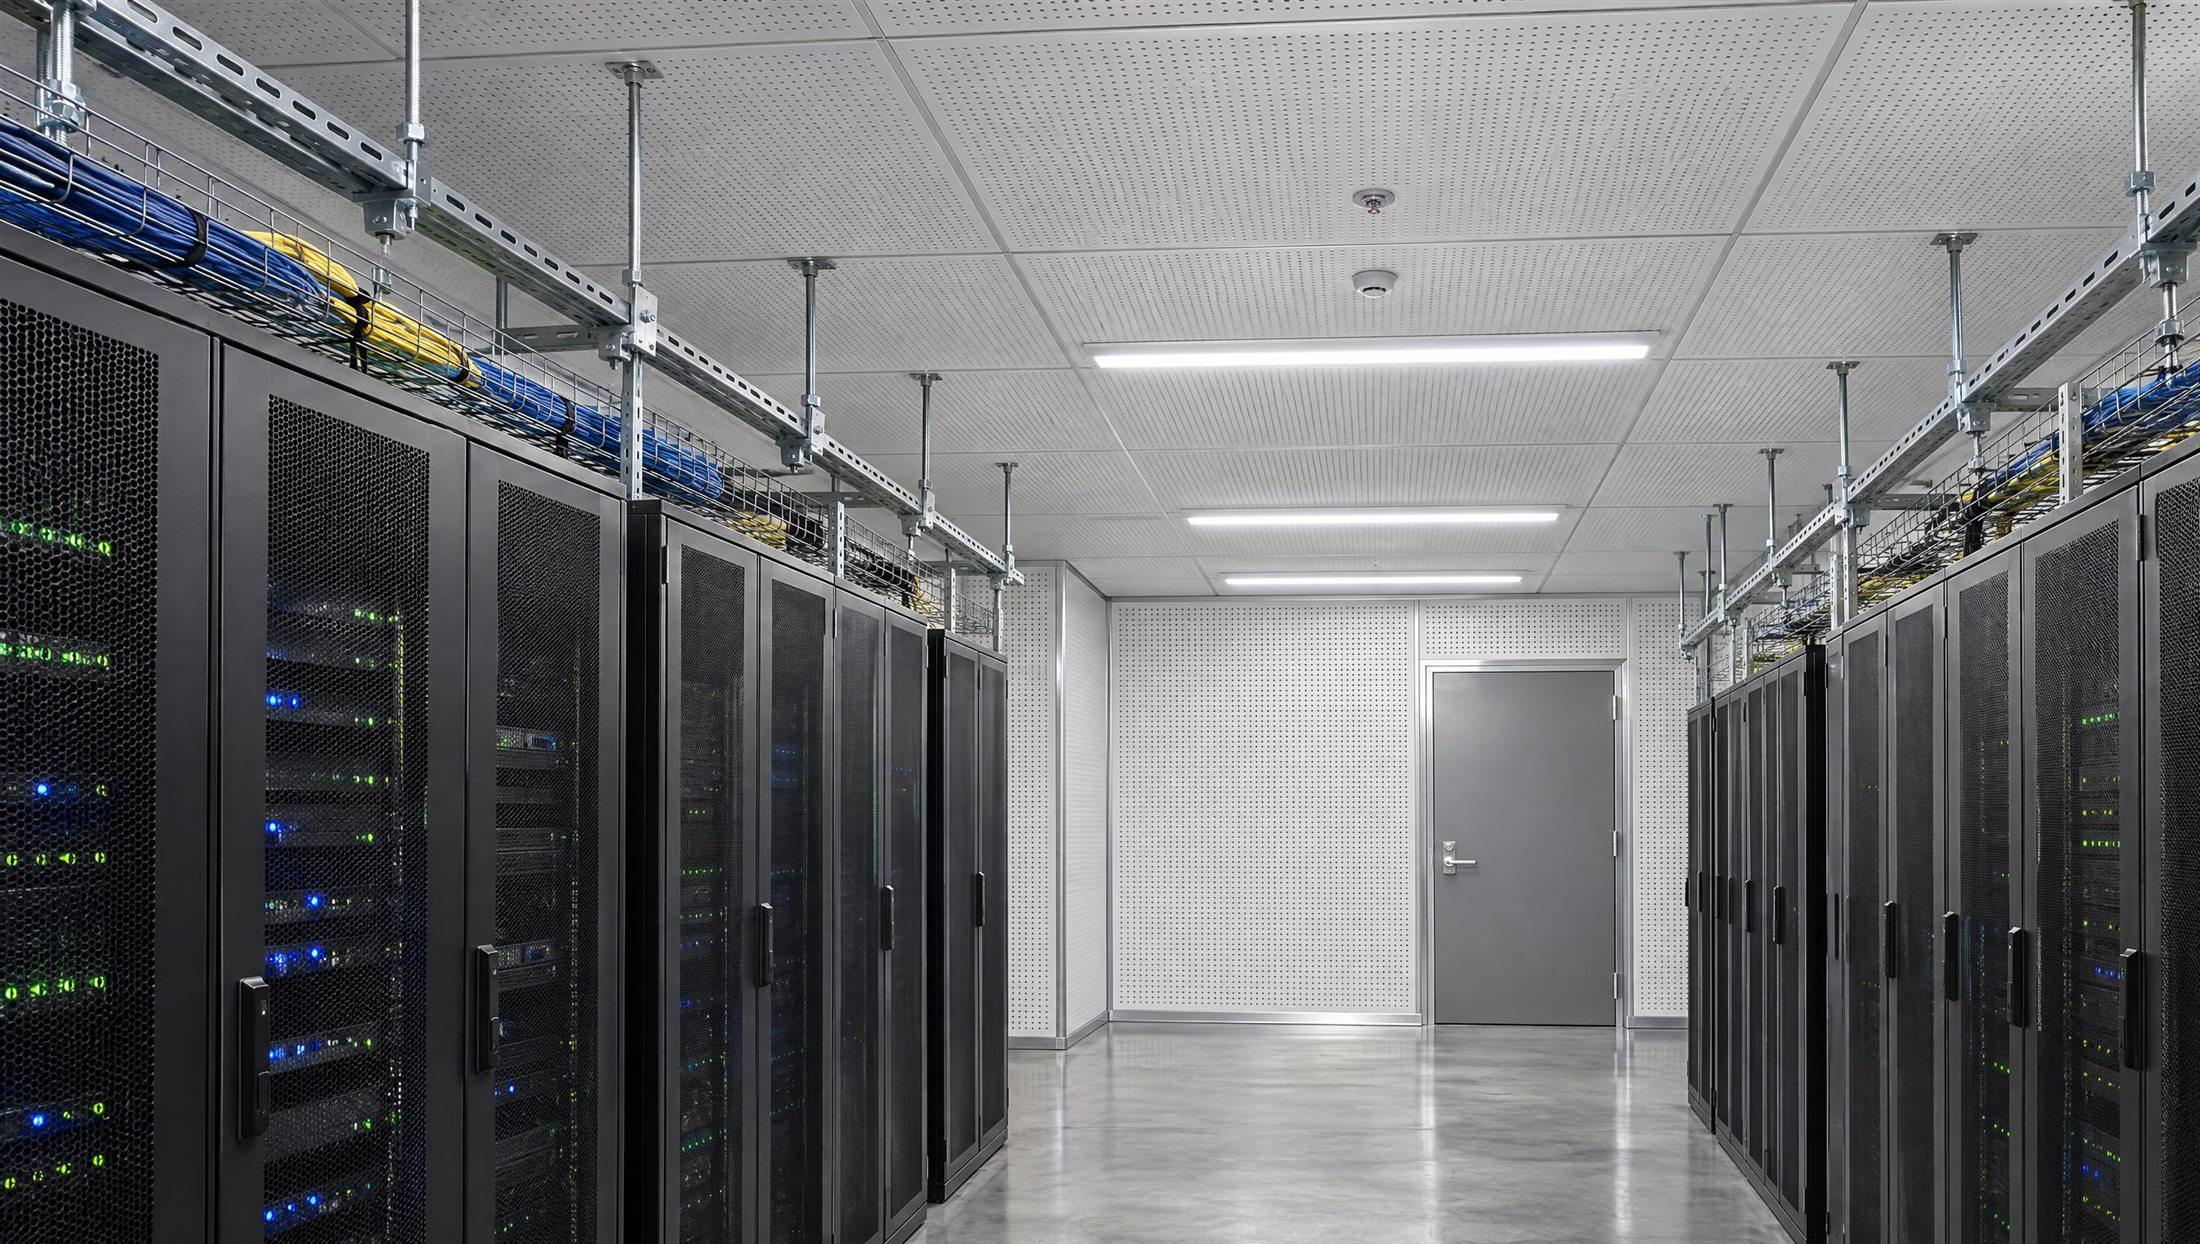
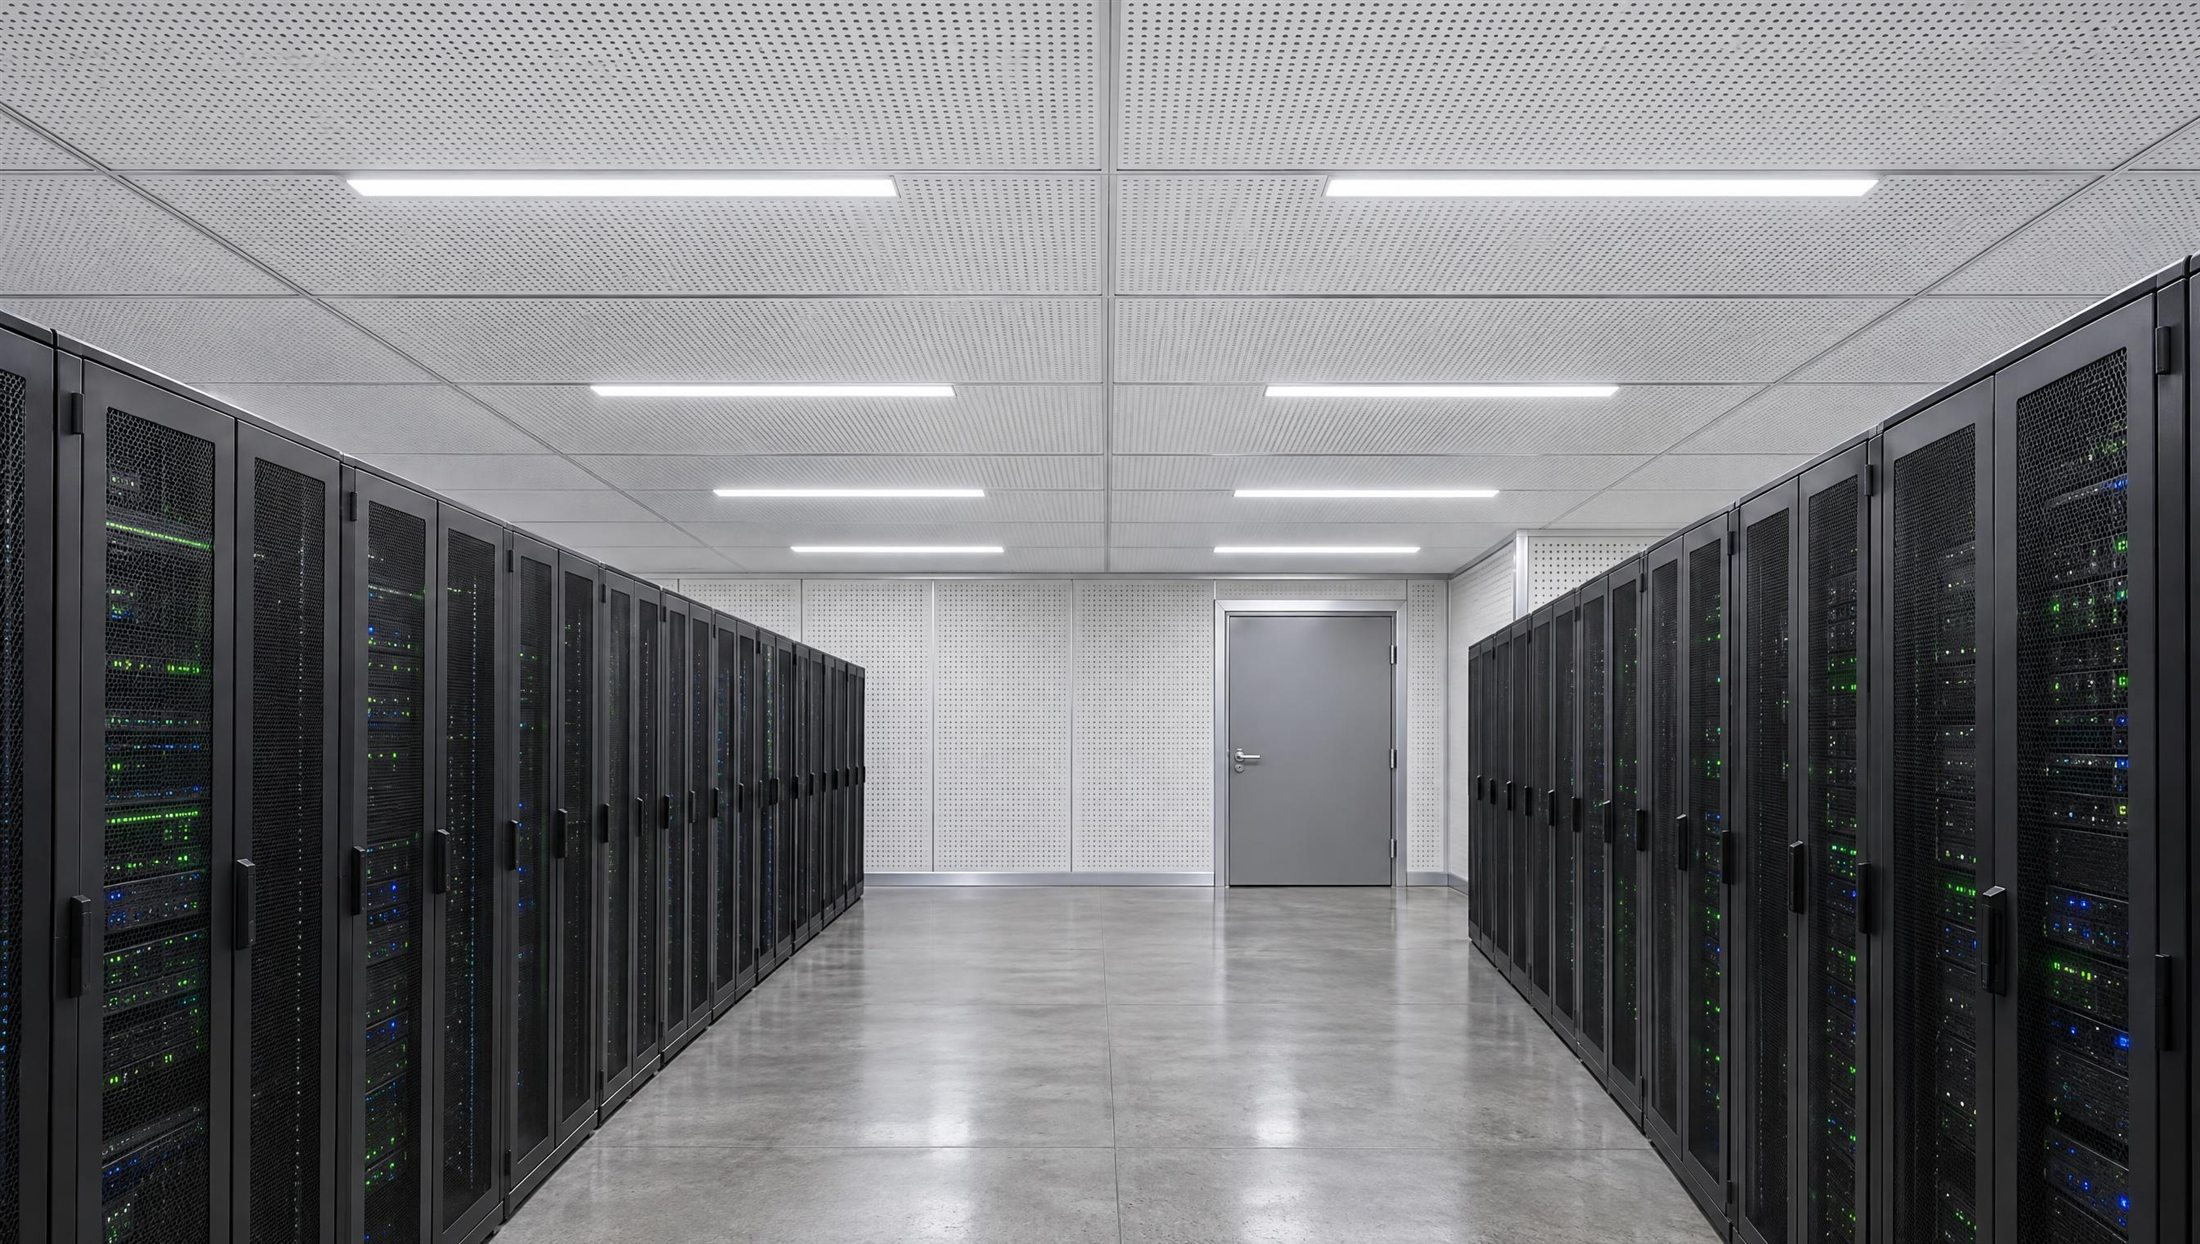
Concept: data center walk-through: drop the strut channel / hangers pin and show a clean inside picture with no hanging hardware

diff --git a/concept/js/scene-data-center.js b/concept/js/scene-data-center.js
@@ -9,11 +9,11 @@
   U.scenes['data-center']={
     modes:{
       out:{label:'Outside',title:'The outside',lead:'The roof, the walls, the entrance door and the corner trim. Tap a number on the picture, or pick a part here.'},
-      in:{label:'Inside',title:'The inside',lead:'The ceiling, the interior wall, seams, hangers and doors. Tap a number on the picture, or pick a part here.'}
+      in:{label:'Inside',title:'The inside',lead:'The ceiling, the interior wall, seam trim, a door and a corner. Tap a number on the picture, or pick a part here.'}
     },
     images:{
       out:{src:'img/dc-outside.jpg',w:2200,h:1244,alt:'Illustration of a data center from outside: a white insulated metal panel building with a smooth front wall, a side wall with visible fasteners, a ribbed roof, an entrance door and aluminum corner trim.'},
-      in:{src:'img/dc-inside.jpg',w:2200,h:1244,alt:'Illustration of the inside of a data center hall: server racks, a perforated white ceiling and wall, strut channel and rods holding cable trays, and a grey metal door.'}
+      in:{src:'img/dc-inside.jpg',w:2200,h:1244,alt:'Illustration of the inside of a data center hall: server racks, a perforated white ceiling and wall, and a grey metal door.'}
     },
     parts:[
       {key:'roof',pid:'roof-fireguard',mode:'out',n:1,label:'Roof',x:58.3,y:21.6,look:'The long ribs running down the roof.'},
@@ -21,12 +21,11 @@
       {key:'wall-side',pid:'wall-exposed',mode:'out',n:3,label:'Side wall',x:71.8,y:48.1,look:'The round fastener heads in rows across each panel.'},
       {key:'door-out',pid:'metal-doors',mode:'out',n:4,label:'Entrance door',x:31.7,y:73.8,look:'The grey door in its aluminum frame.'},
       {key:'corner-out',pid:'corner-angles',mode:'out',n:5,label:'Corner trim',x:61.7,y:58.4,look:'The slim aluminum angle where the two walls meet.'},
-      {key:'ceiling',pid:'roof-acoustic',mode:'in',n:1,label:'Ceiling',x:58.3,y:13.7,look:'The fine perforations across the white ceiling.'},
-      {key:'partition',pid:'interior-acoustic',mode:'in',n:2,label:'Interior wall',x:57.5,y:60.4,look:'The perforated white wall behind the racks.'},
-      {key:'tbar',pid:'t-bar',mode:'in',n:3,label:'Seam trim',x:66,y:19.6,look:'The slim aluminum lines where ceiling panels meet.'},
-      {key:'hangers',pid:'hardware',mode:'in',n:4,label:'Hangers',x:42.1,y:39.1,look:'The threaded rods and slotted strut channel that hold the cable tray.'},
-      {key:'door-in',pid:'metal-doors',mode:'in',n:5,label:'Interior door',x:69.5,y:68.7,look:'The grey door set in the perforated wall.'},
-      {key:'corner-in',pid:'corner-angles',mode:'in',n:6,label:'Corner trim',x:48.3,y:65.2,look:'The aluminum angle in the inside corner.'}
+      {key:'ceiling',pid:'roof-acoustic',mode:'in',n:1,label:'Ceiling',x:38.8,y:20.6,look:'The fine perforations across the white ceiling.'},
+      {key:'partition',pid:'interior-acoustic',mode:'in',n:2,label:'Interior wall',x:45.4,y:58.4,look:'The perforated white wall at the end of the aisle.'},
+      {key:'tbar',pid:'t-bar',mode:'in',n:3,label:'Seam trim',x:50.4,y:22.7,look:'The slim aluminum lines where ceiling panels meet.'},
+      {key:'door-in',pid:'metal-doors',mode:'in',n:4,label:'Interior door',x:59.6,y:60.4,look:'The grey door set in the perforated wall.'},
+      {key:'corner-in',pid:'corner-angles',mode:'in',n:5,label:'Corner trim',x:68.9,y:58.4,look:'The aluminum angle in the inside corner.'}
     ],
     info:{
       'roof-fireguard':{showroom:'showroom.html#fireguard/roof-fireguard',note:CALL,
@@ -44,9 +43,7 @@
       'corner-angles':{showroom:'showroom.html#trim/al-outside-corner',note:'Sizes are nominal. Custom sizes and colors are available.',
         specs:[['Material','Aluminum'],['Thickness','1.5 mm (0.059″)'],['Fits','4″ (100 mm) panel'],['Length','6 m (19.7 ft)']]},
       't-bar':{showroom:'showroom.html#trim/al-t',note:'Sizes are nominal. Custom sizes and colors are available.',
-        specs:[['Material','Aluminum'],['Thickness','3.0 mm (0.118″)'],['Width × height','120 × 150 mm (4.72 × 5.91″)'],['Length','6 m (19.7 ft)']]},
-      'hardware':{showroom:'showroom.html#trim/strut-channel',note:'Sizes are nominal. Custom sizes and colors are available.',
-        specs:[['Strut channel','Pre-galvanized, Z275'],['Section','41 × 41 mm (1.61 × 1.61″)'],['Thickness','2.5 mm (0.098″)'],['Length','6,096 mm (20 ft)']]}
+        specs:[['Material','Aluminum'],['Thickness','3.0 mm (0.118″)'],['Width × height','120 × 150 mm (4.72 × 5.91″)'],['Length','6 m (19.7 ft)']]}
     }
   };
 })();
